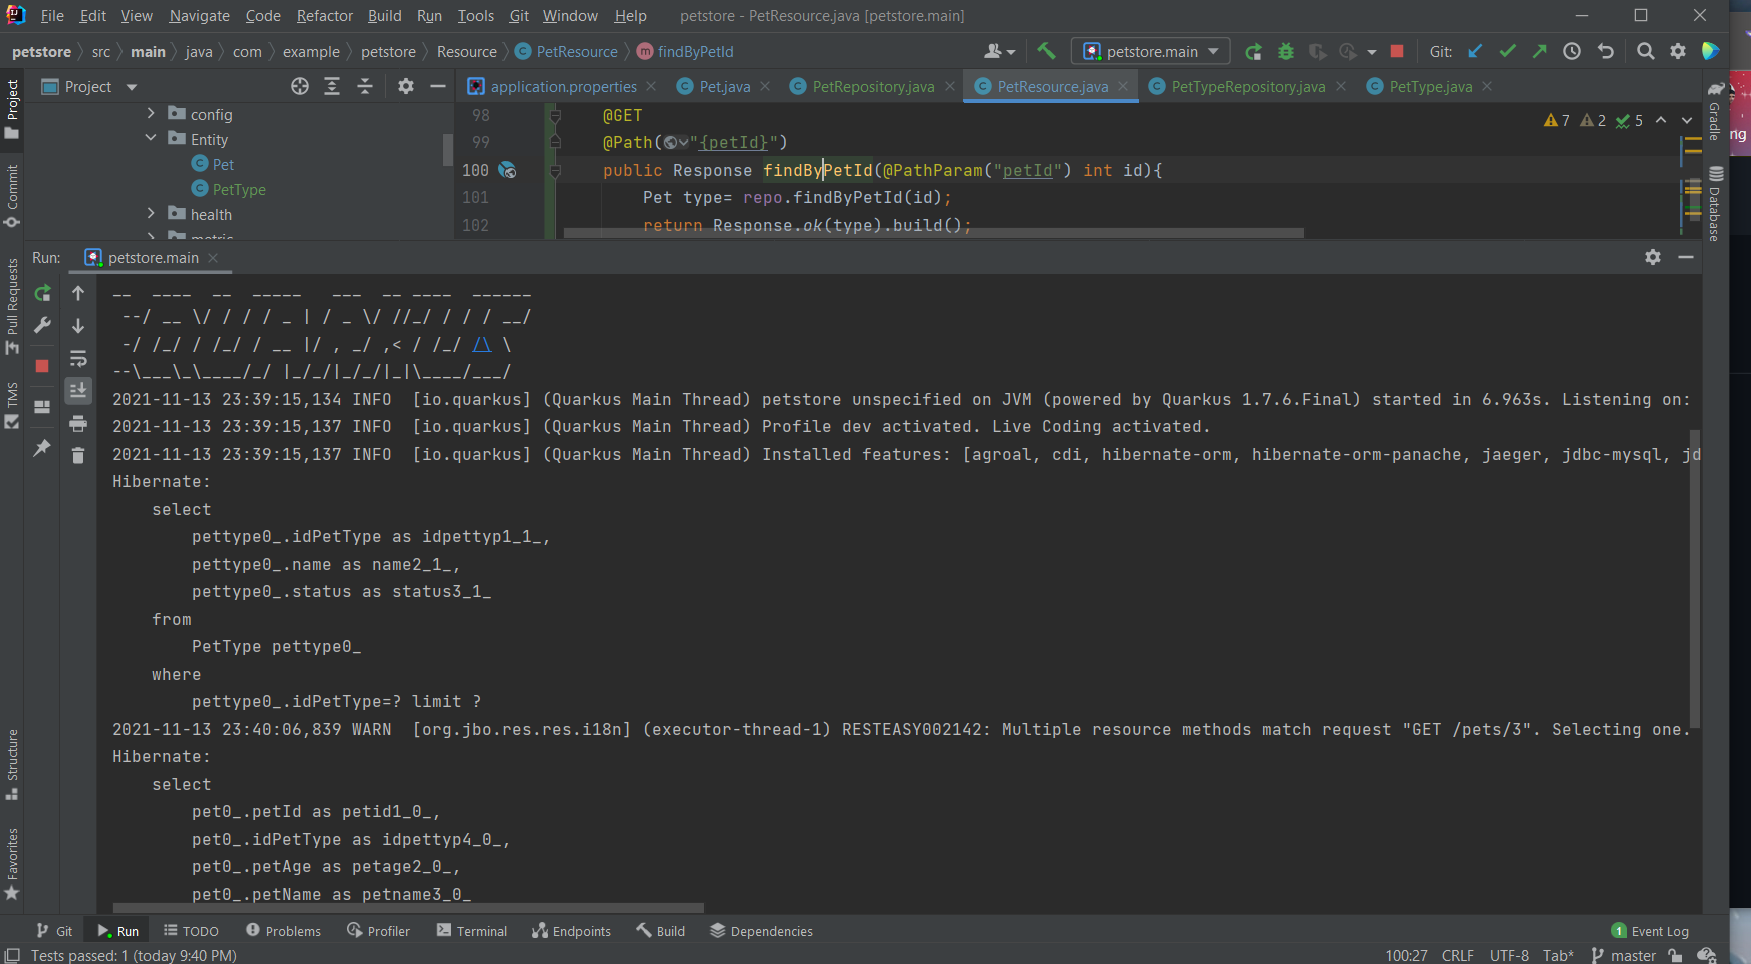
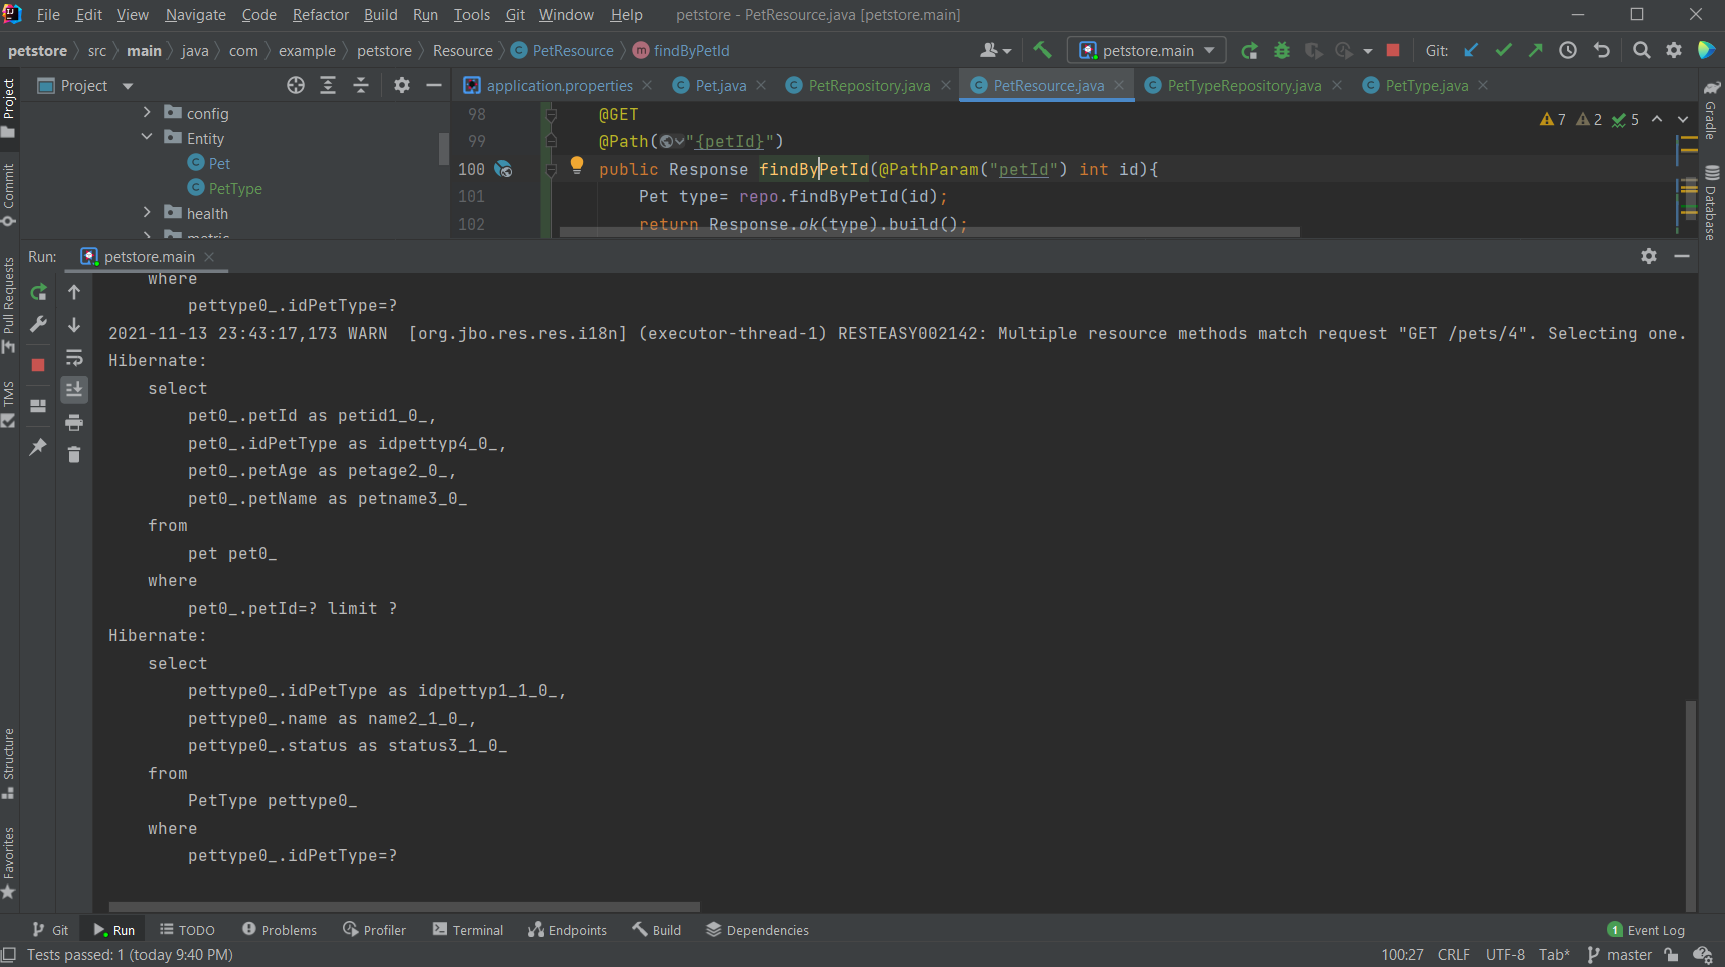
PetId Test

diff --git a/README.md b/README.md
@@ -156,6 +156,9 @@ Here are some CRUD operation Test cases with Database Connectivity.
 
 1) Pet Selection with Id
 
+
+    Run http://localhost:8080/pets/4
+
 ## Deploying Application
 
 To deploy the demo app on a docker-compose please visit [./deploy](https://github.com/rasika/petstore/tree/master/deploy)
